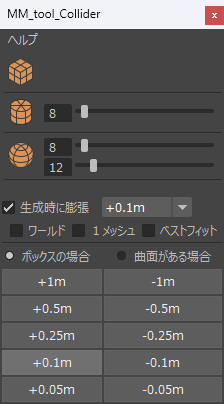
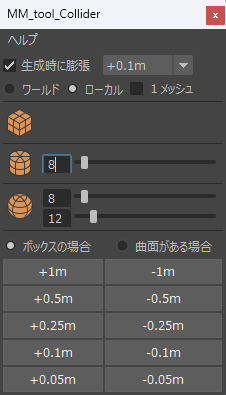
Update Wiki content

Changed region(s): [[0.0, 0.0, 1.0, 1.0], [0.9062, 0.0304, 1.0, 0.0911]]

diff --git a/guide/usage.md b/guide/usage.md
@@ -10,15 +10,6 @@
 
 ## UI項目の説明
 
-### 形状と分割数
-各形状のアイコンの横にあるスライダーで、生成時の分割数を調整できます。
-
-![形状と分割数 UI](./images/ui_1.png)
-
-- **Cube**: 幅、高さ、奥行きの分割数
-- **Cylinder**: 軸の分割数、高さ、キャップ
-- **Sphere**: 軸の分割数、高さ
-
 ### オプション設定
 
 ![オプション設定 UI](./images/ui_2.png)
@@ -39,6 +30,15 @@
   - オブジェクトの形状を解析し、最小体積となる最適な向き（OBB）でコライダーを作成します。
   - 斜めに配置されたオブジェクトなどに正確にフィットさせたい場合に有効です。
   - ※ `World` オフ時、または `1 Primitive` オン時に利用可能です。
+
+### 形状と分割数
+各形状のアイコンの横にあるスライダーで、生成時の分割数を調整できます。
+
+![形状と分割数 UI](./images/ui_1.png)
+
+- **Cube**: 幅、高さ、奥行きの分割数
+- **Cylinder**: 軸の分割数、高さ、キャップ
+- **Sphere**: 軸の分割数、高さ
 
 ### 拡張機能 (Expand/Shrink)
 

diff --git a/guide/installation.md b/guide/installation.md
@@ -10,7 +10,11 @@
 
 最新版は以下からダウンロードしてください。
 
-[MM_tool_Collider をダウンロード (zip)](/MM_tool_Collider.zip)
+[MM_tool_Collider v1.0.0 をダウンロード (zip)](/MM_tool_Collider_v1.0.0.zip)
+
+### 過去バージョン
+
+- [MM_tool_Collider v0.9 (Old)](/MM_tool_Collider_v0.9.zip)
 
 ## 手順
 
